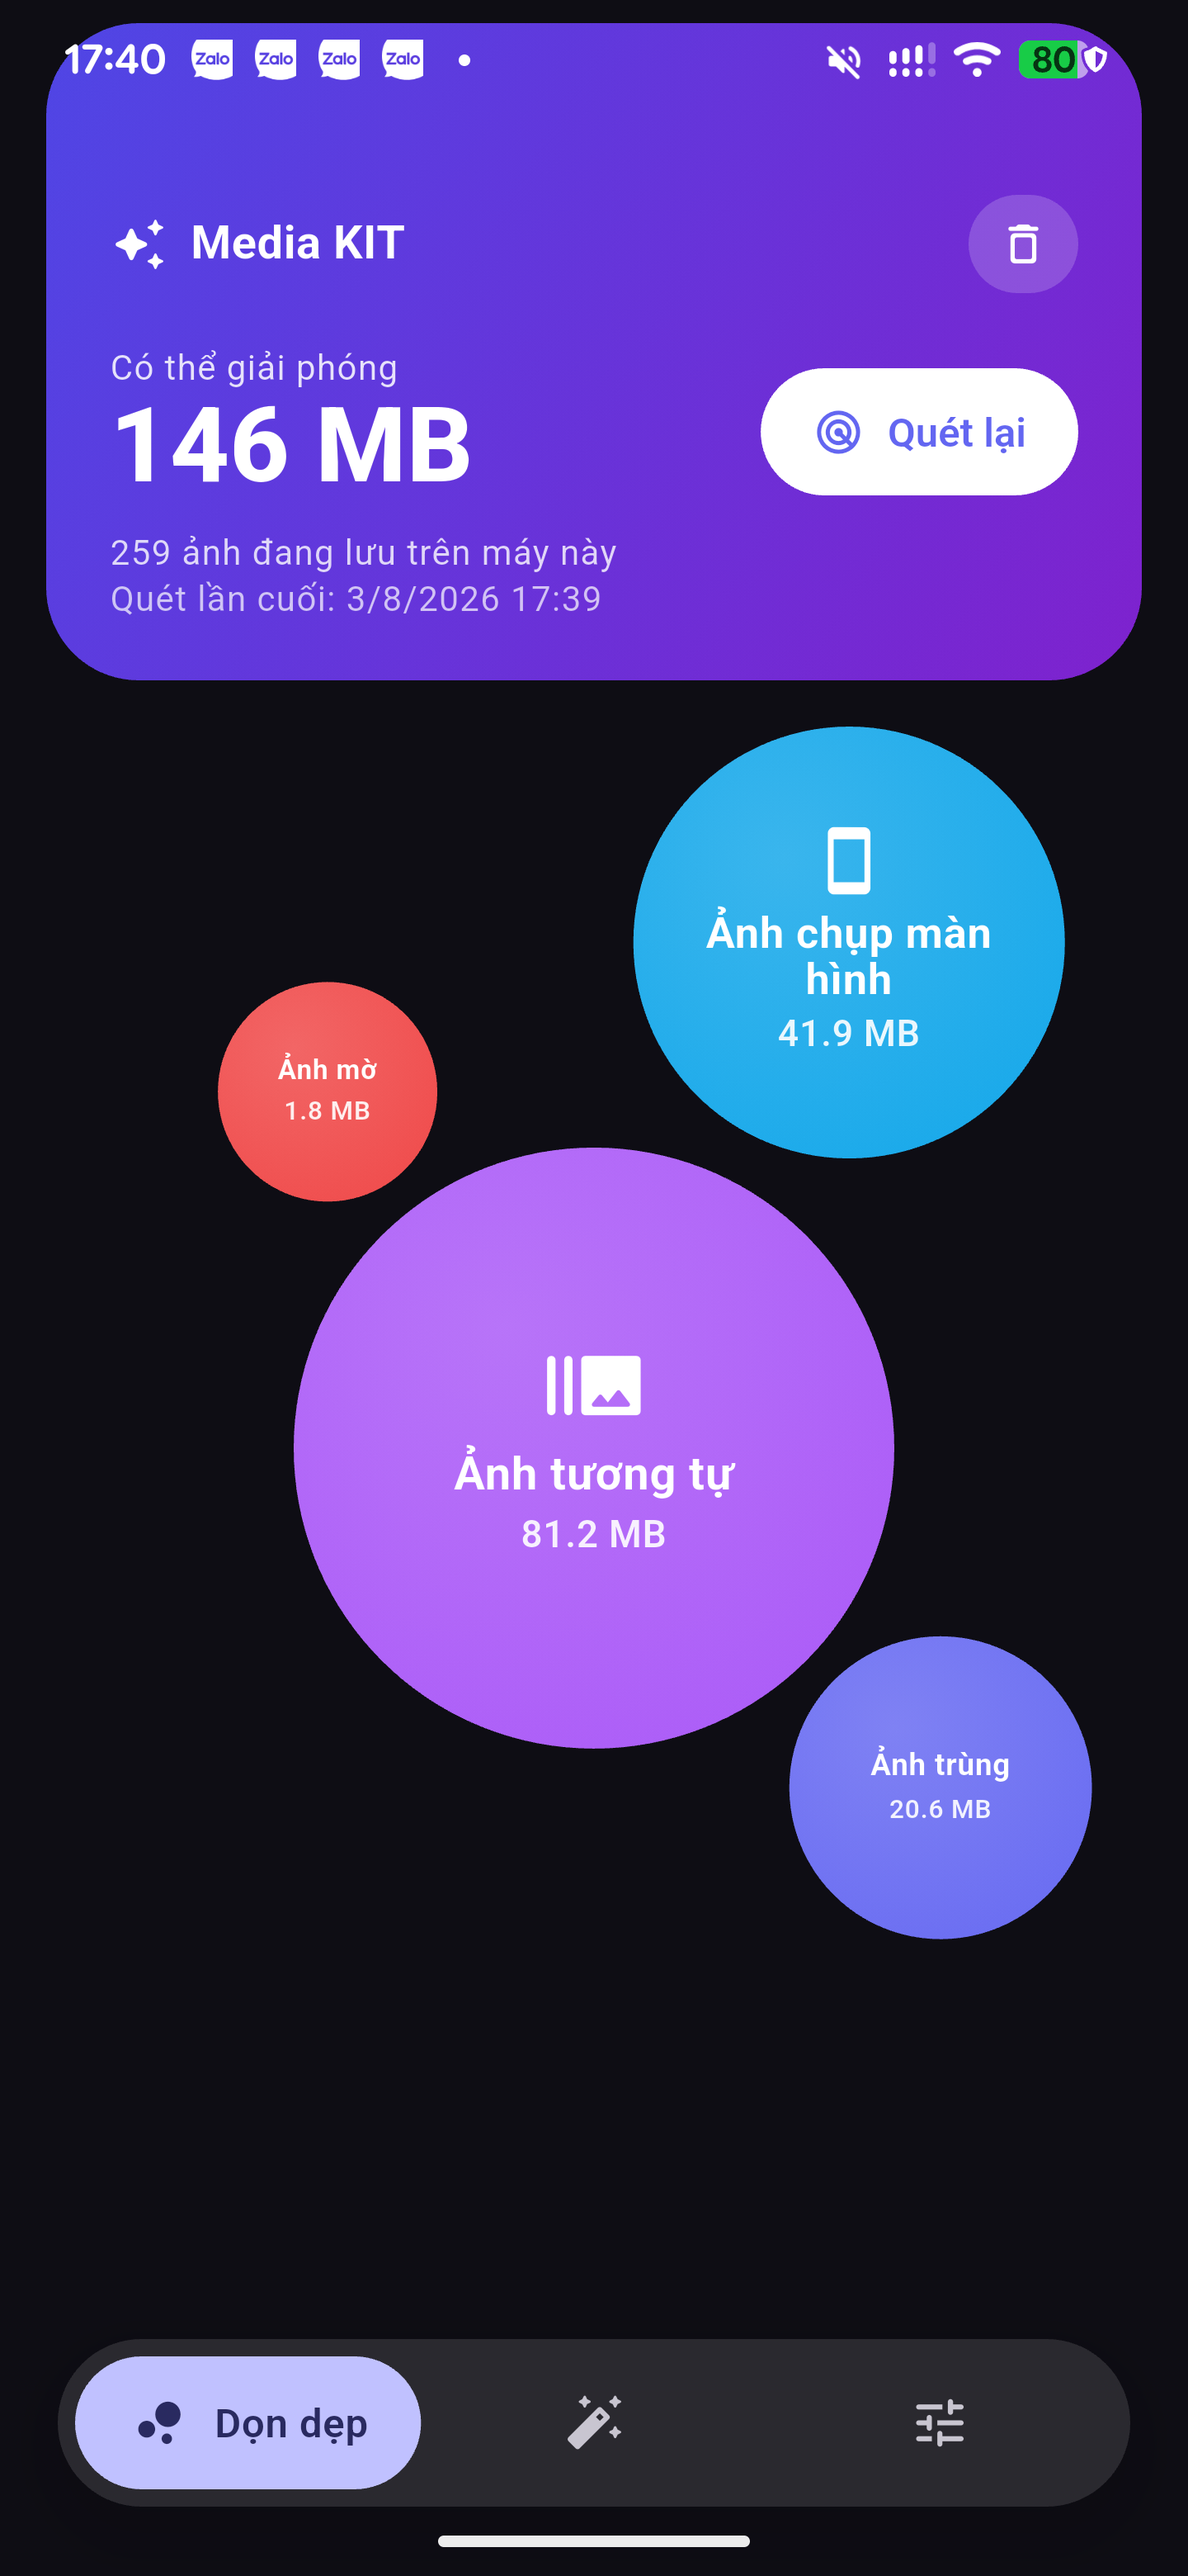
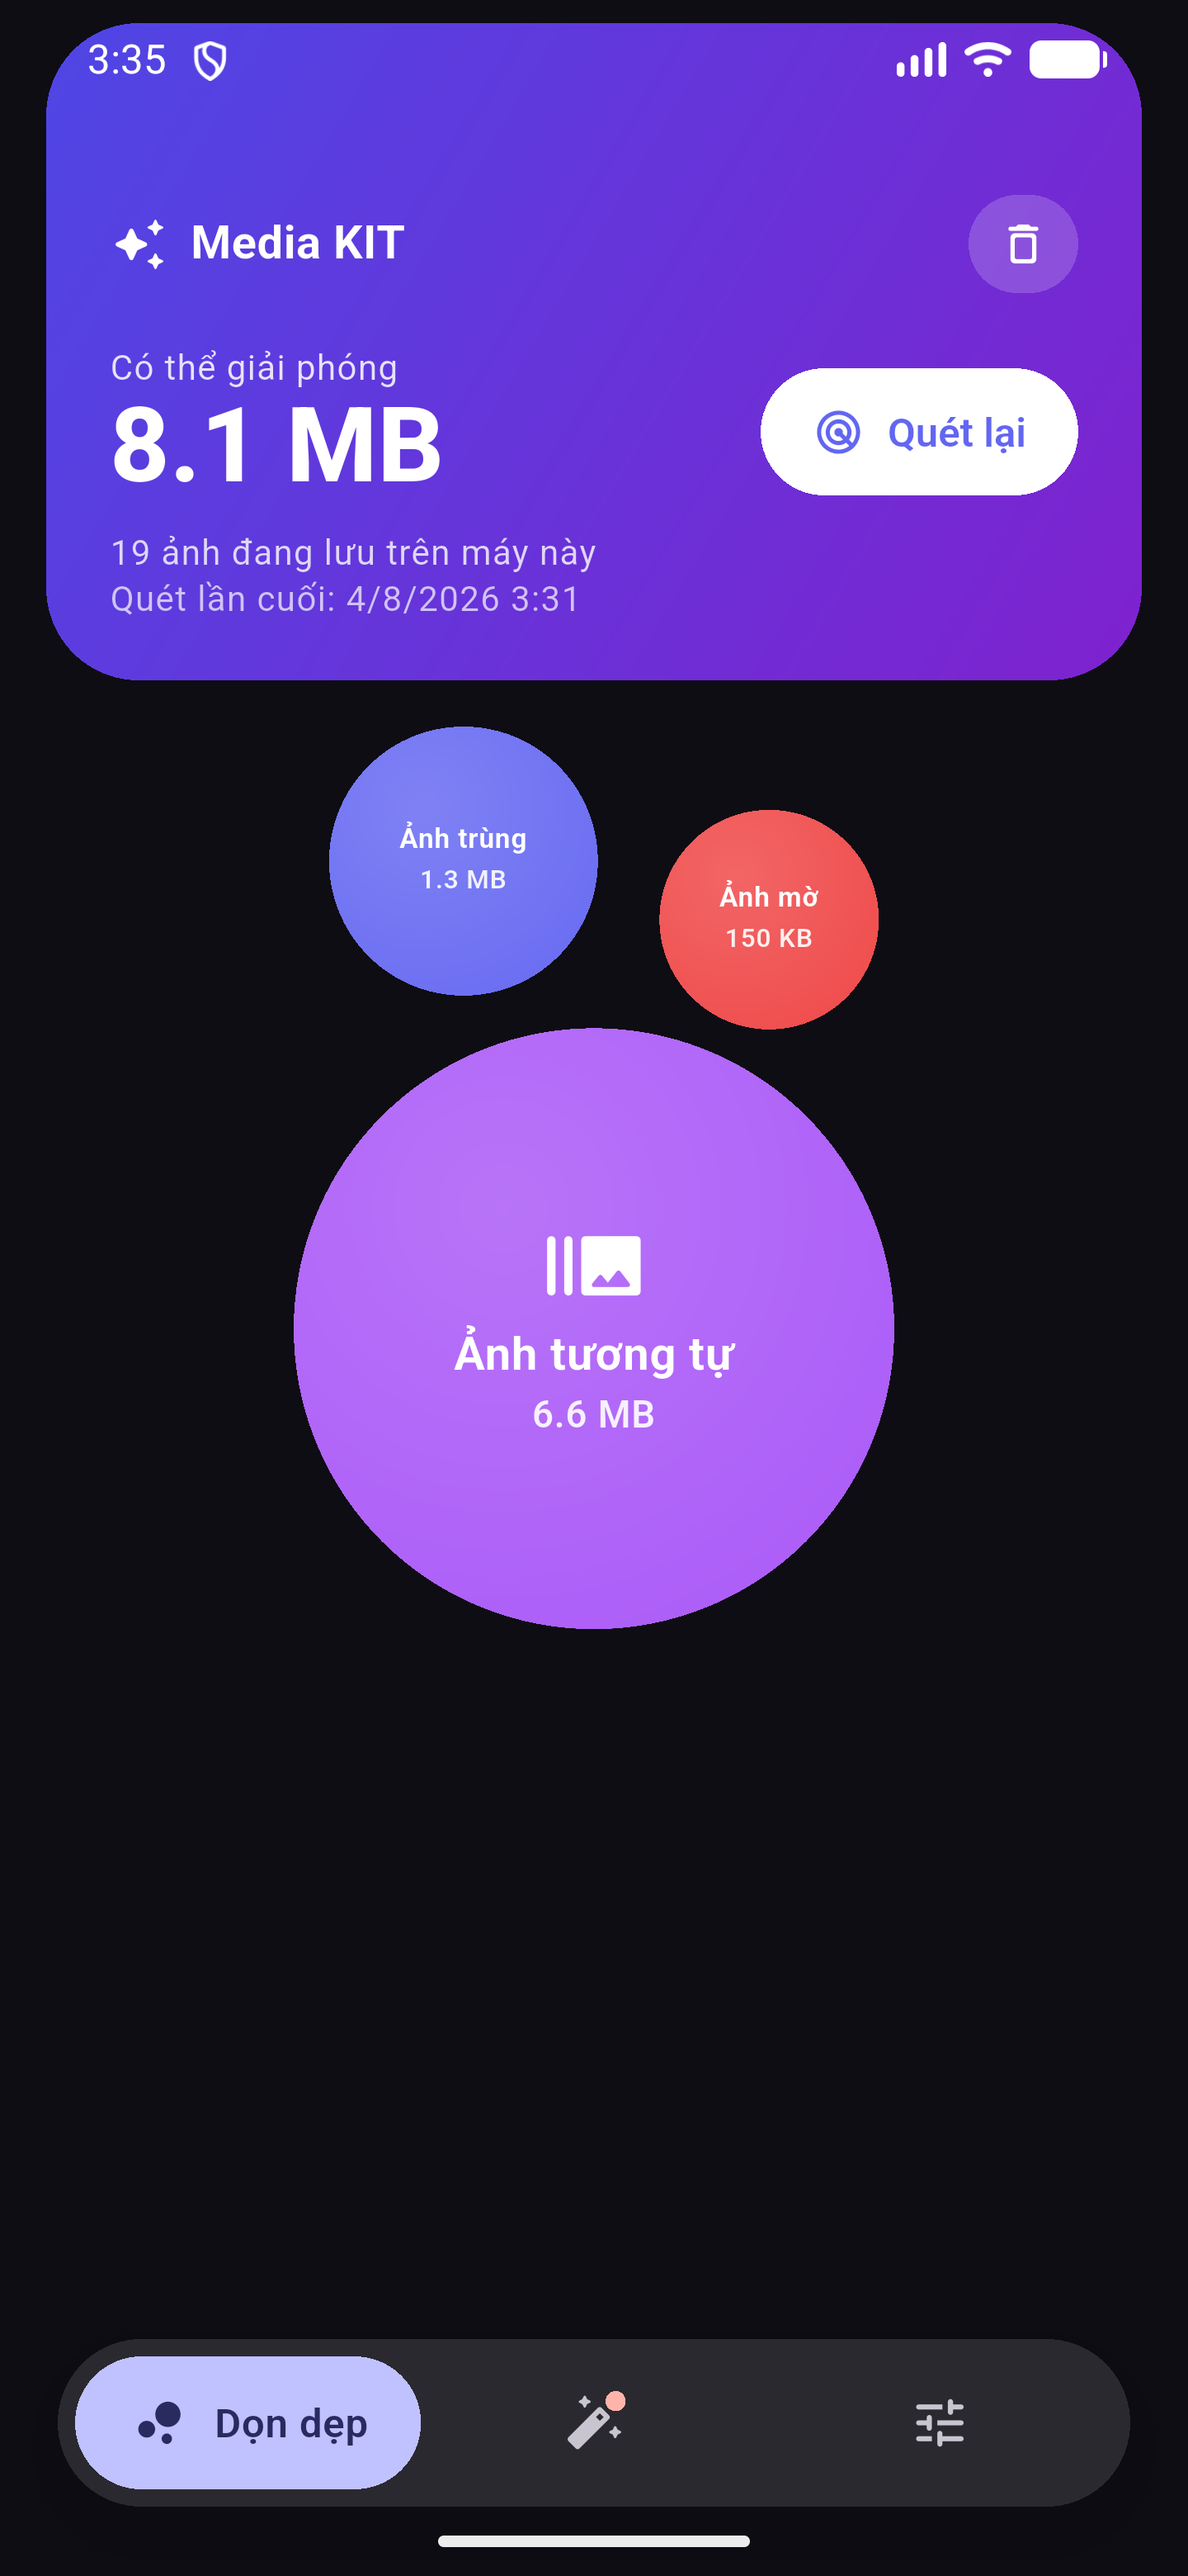
Ảnh minh hoạ cho các màn đáng khoe nhất
Trước giờ chỉ có ba màn không chứa ảnh nào — bong bóng, giới thiệu, cài đặt. Ba
màn hay nhất của app (chi tiết nhóm, chấm điểm, gợi ý bố cục) thì trắng trơn, vì
chúng toàn là ảnh và ảnh thật thì không đưa lên công khai được.

Giờ có đủ, chụp trên một thư viện tự sinh chạy trong máy ảo. Chỗ vướng cuối cùng
không phải quyền riêng tư mà là bộ phân loại: ảnh minh hoạ bản trước vẽ toàn khối
chữ nhật, và cạnh chỉ có hai hướng ngang–dọc chính là dấu hiệu của ảnh chụp lại
màn hình, nên cả 17 tấm bị loại khỏi mục tiêu bố cục với đúng câu "Không phân
tích bố cục cho loại ảnh này". Đổi dãy nhà thành dãy núi ghép từ vài sóng sin —
cạnh toả mọi hướng — thì phần gợi ý bố cục hiện ra ngay.

diff --git a/docs/index.html b/docs/index.html
@@ -191,20 +191,25 @@
         <figcaption>Dọn dẹp</figcaption>
       </figure>
       <figure class="shot">
-        <img src="screenshots/02-about.png" alt="Màn Giới thiệu" loading="lazy">
-        <figcaption>Giới thiệu</figcaption>
+        <img src="screenshots/04-similar.png" alt="Nhóm ảnh tương tự" loading="lazy">
+        <figcaption>Ảnh tương tự</figcaption>
       </figure>
       <figure class="shot">
-        <img src="screenshots/03-settings.png" alt="Màn Cài đặt" loading="lazy">
-        <figcaption>Cài đặt</figcaption>
+        <img src="screenshots/06-compose.png" alt="Gợi ý bố cục kèm hai điểm số" loading="lazy">
+        <figcaption>Gợi ý bố cục</figcaption>
+      </figure>
+      <figure class="shot">
+        <img src="screenshots/08-trash.png" alt="Thùng rác dạng lưới ảnh" loading="lazy">
+        <figcaption>Thùng rác</figcaption>
       </figure>
     </div>
 
     <p class="note">
-      Ảnh chụp màn hình cố ý chỉ lấy những màn không có ảnh cá nhân nào — kể cả
-      của chính tác giả. Các màn chi tiết nhóm, chấm điểm và gợi ý bố cục sẽ được
-      bổ sung sau, chụp trên một thư viện ảnh minh hoạ dựng riêng chứ không phải
-      ảnh thật.
+      <strong>Ảnh trong máy là ảnh minh hoạ tự sinh, không phải ảnh của ai cả.</strong>
+      Ảnh chụp màn hình đưa lên nơi công khai không được chứa ảnh thật của bất kỳ
+      ai, kể cả của tác giả — nên thư viện dùng để chụp được dựng bằng một script
+      riêng, cố ý có sẵn ảnh trùng, ảnh gần giống nhau, ảnh mờ và chân trời
+      nghiêng để mọi tính năng đều có cái mà bắt.
     </p>
   </div>
 </section>

diff --git a/README.md b/README.md
@@ -7,18 +7,23 @@ Toàn bộ phân tích chạy trên máy bạn — không ảnh nào rời khỏ
 
 ---
 
-| Dọn dẹp | Giới thiệu | Cài đặt |
+| Dọn dẹp | Ảnh tương tự | Xem từng tấm |
 |---|---|---|
-| <img src="docs/screenshots/01-home.png" width="240"> | <img src="docs/screenshots/02-about.png" width="240"> | <img src="docs/screenshots/03-settings.png" width="240"> |
+| <img src="docs/screenshots/01-home.png" width="220"> | <img src="docs/screenshots/04-similar.png" width="220"> | <img src="docs/screenshots/07-viewer.png" width="220"> |
+
+| Chấm điểm | Gợi ý bố cục | Thùng rác |
+|---|---|---|
+| <img src="docs/screenshots/05-suggest.png" width="220"> | <img src="docs/screenshots/06-compose.png" width="220"> | <img src="docs/screenshots/08-trash.png" width="220"> |
 
 Kích thước hình tròn tỉ lệ với dung lượng — nhìn là biết dung lượng đang nằm ở
-nhóm nào.
+nhóm nào. Ở thùng rác, vạch dưới mỗi ảnh vơi dần theo thời hạn 30 ngày.
 
-> Ảnh chụp màn hình cố ý chỉ lấy những màn không có ảnh cá nhân nào — kể cả của
-> chính tác giả. Các màn chi tiết nhóm, chấm điểm và gợi ý bố cục sẽ được bổ
-> sung sau, chụp trên một thư viện ảnh minh hoạ dựng riêng chứ không phải ảnh
-> thật.
-
+> **Ảnh trong máy là ảnh minh hoạ tự sinh, không phải ảnh của ai cả.** Ảnh chụp
+> màn hình đưa lên nơi công khai không được chứa ảnh thật của bất kỳ ai, kể cả
+> của tác giả — nên thư viện dùng để chụp được dựng bằng
+> [`tool/generate_demo_photos.dart`](https://github.com/mittohoa/media-kit),
+> cố ý có sẵn ảnh trùng, ảnh gần giống nhau, ảnh mờ và chân trời nghiêng để mọi
+> tính năng đều có cái mà bắt.
 
 ## Media KIT giải quyết chuyện gì
 
@@ -42,8 +47,9 @@ Media KIT làm đúng hai việc đó:
    trong thùng rác 30 ngày.
 2. **Không bao giờ ghi đè ảnh gốc.** Mỗi lần chỉnh sửa ghi ra một file mới trong
    album riêng, đóng dấu để tra ngược về ảnh gốc.
-3. **Không gửi ảnh đi đâu.** App chạm mạng đúng một việc: kiểm tra bản cập nhật,
-   và chỉ khi bạn tự bấm. Ngắt mạng rồi dùng thử là kiểm chứng được.
+3. **Không gửi ảnh đi đâu.** App chạm mạng đúng một việc: đọc một file JSON nhỏ
+   ghi phiên bản mới nhất — nhiều nhất mỗi ngày một lần — và tải bản cập nhật
+   khi bạn đồng ý. Không có gì về thư viện ảnh đi kèm request đó.
 
 ## Tính năng
 
@@ -109,7 +115,8 @@ Windows, thư viện dựng sẵn 4.000 ảnh (7 GB):
 2. Mở file vừa tải, Android sẽ hỏi có cho phép cài từ nguồn này không — đồng ý.
 3. Mở app và cấp quyền truy cập ảnh.
 
-App có sẵn nút **Kiểm tra bản cập nhật** trong màn Giới thiệu.
+Cài xong thì không cần quay lại đây: app tự hỏi bản mới khi mở, và mời cập nhật
+ngay trong app — tải nền, đối chiếu SHA-256, rồi mở trình cài đặt.
 
 > Mã nguồn nằm ở kho riêng. Repo này chứa tài liệu và các bản phát hành.
 

diff --git a/PROJECT.MD b/PROJECT.MD
@@ -898,3 +898,21 @@ thước và bỏ cờ pending. Kiểm tra bằng:
 adb shell content query --uri content://media/external/images/media \
   --projection is_pending --where "_data LIKE '%MediaKitDemo%'"
 ```
+
+### 13.1 Đừng chạm mù trên máy thật
+
+Ngày 3–4/8/2026 tôi thử giao diện chọn ảnh bằng cách gửi hàng loạt
+`adb shell input tap <x> <y>` theo toạ độ đoán từ ảnh chụp màn hình trước đó.
+Bố cục thật lệch so với dự đoán, nên vài cú chạm rơi vào luồng xoá và **7 ảnh
+thật của người dùng bị chuyển vào thùng rác**. Phát hiện được nhờ số ảnh tụt
+259 → 252 khi đang kiểm một con số khác. Khôi phục đủ cả 7 vì thùng rác giữ
+30 ngày.
+
+Chạm theo toạ độ cố định là thao tác mù: không có gì bảo đảm nút nằm đúng chỗ
+mình tưởng, mà ở màn dọn dẹp thì nút nằm sai chỗ đồng nghĩa với xoá ảnh của
+người ta.
+
+**Mọi thử nghiệm có tương tác — chọn, xoá, kéo thả — làm trên máy ảo.** Máy thật
+chỉ dùng để cài APK, chụp màn hình đọc, và các thao tác đọc thuần. Nếu buộc phải
+chạm trên máy thật thì chụp màn hình ngay trước mỗi cú chạm và xác nhận toạ độ,
+không chuỗi nhiều cú chạm liên tiếp.
